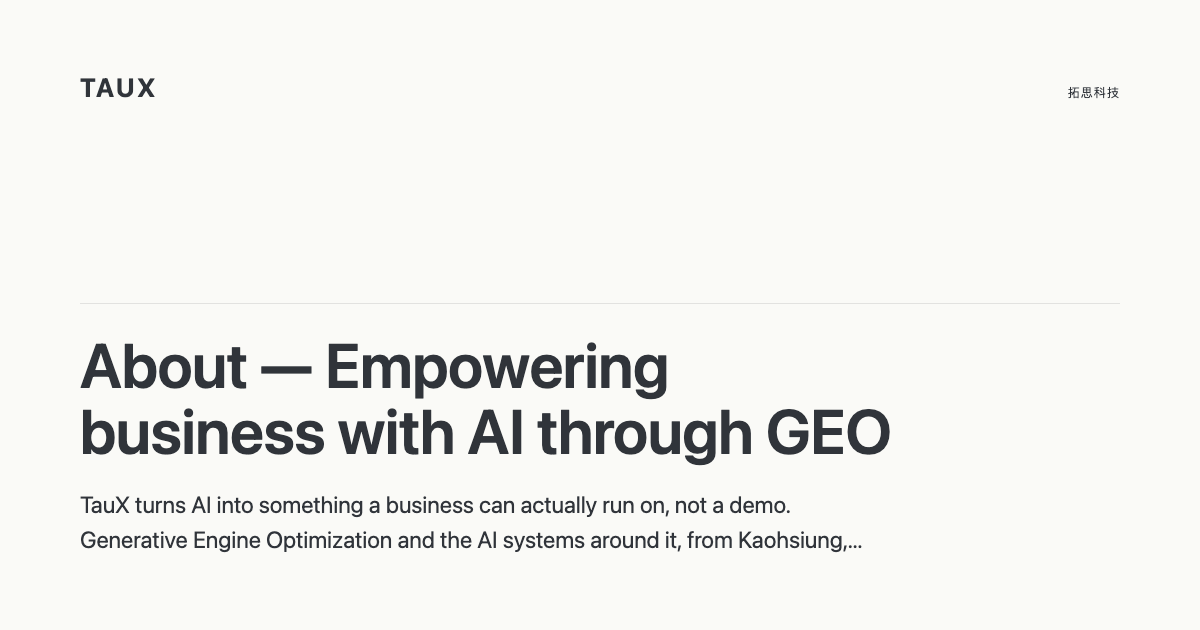
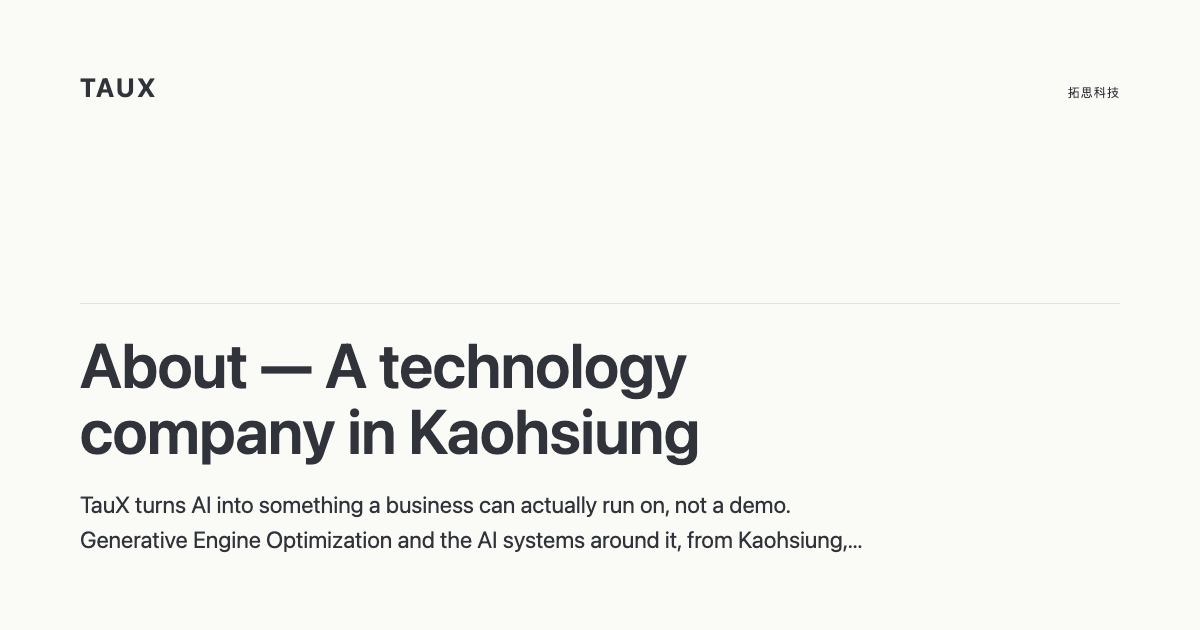
語氣——八處促銷語言，而 v5 唯一那條內容規則從來沒有東西讀過它 (#300)
* fix: 語氣——八處促銷語言，而 v5 唯一那條內容規則從來沒有東西讀過它

DESIGN.md 的「語氣」章是 v5 從參考站整條搬過來、印刷與網頁都成立的唯一一條
內容規則：no sales language, CTA, hype, productivity slogans, brand manifesto
voice。它自己寫著「沒有東西檢查，而且大概檢查不了」。

第一次真的讀過它。zh-Hant-TW 二十條路由、七萬字，八處違規，集中在四頁。

  index            致力於⋯以最敏捷、沉穩的姿態完成數智化躍遷
  about H1 副標    我們把 AI 變成企業真正的戰力
  about 開頭       深厚根基 + 國際級視野 + 搶佔先機
  about 使命       我們的使命是⋯透過獨家的「答案容器」技術
  about 技術       打造極致的使用者體驗⋯全方位的技術後盾
  data-governance  打通數據任督二脈，奠定堅實基礎
  ai-smart-work    數智化你的工作⋯構建您的 AI 競爭力
  ai-smart-work    讓 AI 不只是工具，而是你的最強大腦

改寫的範本不是我發明的，是站上本來就有的三句：agent-dev-workflow 的「工具是
公開的，難的是接到你既有的 tracker」、pqc-migration 的「多數組織卡在第一步」、
threat-landscape 的「報告講的是全球樣態，你需要的是自己的資產清單」。具體、
觀察式、指出真正的難處——正是規範要的 human and specific rather than
inspirational。

一個模式：技術指南頁的語氣本來就是對的，行銷頁不是。規範那句「本站 15 頁是
技術指南，落在 factual／scientific 那一格」只涵蓋了 15 頁，另外 5 頁沒人管過。

CTA 按鈕本身不違規。DESIGN.md 的不採用表明文寫著「海報沒有點擊目標，網站的
主要動作就是點擊，這是印刷／網頁的邊界」。看的是按鈕旁邊那句話。

兩件量出來的事：

- 模式撈得出候選，判不了語氣。42 個候選裡 34 個是誤報——「最好由寫那個改動的
  session 做」是技術散文，「27 秒是最快值」是報告數據，「最佳實踐」是 Best
  Practices 的譯名。這印證規範自己寫的「大概檢查不了」。
- 我的模式漏掉 about.html 的 H1 副標。它沒有命中任何關鍵字，是改完前後對讀
  才看到的——而那是全站最刺眼的位置之一。

只改 zh-Hant-TW。其他四個 locale 的文案不是逐字翻譯（CTA 計數 9/11/4/6/9 各
不同），要各自掃過，不能套。

驗證：十二道閘門全綠，dist/ 與 100 份 Markdown 雙生檔重建。

Claude-Session: https://claude.ai/code/session_01JUmS2Ks4Kz9V63H9wo6wv9

* fix: 截圖抓到三處，其中一處是我上一個 commit 自己造成的

第一次真的看這個站。八張截圖，三件十二道閘門全綠時看不見的事。

一、上一個 commit 製造了重複。τ 那段的括號裡已經解釋完時間常數，我又用白話
   再解釋一次：「（…表徵系統響應外界變化並過渡至全新穩定狀態的關鍵時間）。
[…]

Changed region(s): [[0.0617, 0.5429, 0.74, 0.754]]

diff --git a/templates/about.html b/templates/about.html
@@ -45,14 +45,14 @@
                  measured width differs by machine and an unforced break lands
                  somewhere different on each. This line is shorter and fits on
                  one at every width the geometry gate walks. -->
-            <span class="display-lead">Empowering Business with AI</span>
-            <span class="display-sub">我們把 AI 變成企業真正的戰力</span>
+            <span class="display-lead">A technology company in Kaohsiung</span>
+            <span class="display-sub">做 GEO 與企業 AI 導入的技術公司</span>
         </h1>
         <p class="text-xl max-w-[42ch] leading-relaxed mb-6">
-            TauX 拓思科技專注於 GEO (生成式引擎優化) 與 AI 智能解決方案。我們結合高雄在地的深厚根基與國際級的技術視野，協助企業在 AI 時代搶佔先機。
+            TauX 拓思科技做 GEO（生成式引擎優化）與企業 AI 導入，公司設在高雄岡山。
         </p>
         <p class="text-sm max-w-[42ch] leading-relaxed font-sans">
-            我們的名字源自希臘字母 <strong class="font-sans">τ</strong>（Tau，在控制科學與物理學中代表<strong>時間常數 Time Constant</strong>，表徵系統響應外界變化並過渡至全新穩定狀態的關鍵時間）。TauX 致力於優化企業迎戰 AI 浪潮的「時間常數」，加速系統性的智能躍遷。
+            我們的名字源自希臘字母 <strong class="font-sans">τ</strong>（Tau，在控制科學與物理學中代表<strong>時間常數 Time Constant</strong>，表徵系統響應外界變化並過渡至全新穩定狀態的關鍵時間）。導入 AI 也有這個常數，而縮短它就是我們在做的事。
         </p>
     </div>
 </section>
@@ -69,7 +69,7 @@
                 </h2>
                 </div>
                 <p class="leading-relaxed">
-                    在 Generative AI 重塑網路流量的時代，我們的使命是協助品牌從傳統 SEO 轉型至 GEO。透過獨家的「答案容器」技術，讓您的內容被 AI 優先讀取與引用。
+                    生成式引擎不回傳一份連結清單，它回傳一段答案。要成為那段答案的來源，和排進十條藍色連結是兩件不同的工作。
                 </p>
             </div>
             <div class="border-t border-line pt-8">
@@ -80,7 +80,7 @@
                 </h2>
                 </div>
                 <p class="leading-relaxed">
-                    我們採用 Go (Golang) 構建高效能後端，並以現代化前端技術打造極致的使用者體驗。從數據治理到自動化 Agent，我們提供全方位的技術後盾。
+                    後端寫 Go，前端不套框架的預設樣式。做的範圍從資料治理到自動化 agent。
                 </p>
             </div>
         </div>

diff --git a/templates/zh-Hans-CN/about.html b/templates/zh-Hans-CN/about.html
@@ -45,11 +45,11 @@
                  measured width differs by machine and an unforced break lands
                  somewhere different on each. This line is shorter and fits on
                  one at every width the geometry gate walks. -->
-            <span class="display-lead">Empowering Business with AI</span>
-            <span class="display-sub">我们把 AI 变成企业真正的战力</span>
+            <span class="display-lead">A technology company in Kaohsiung</span>
+            <span class="display-sub">做 GEO 与企业 AI 导入的技术公司</span>
         </h1>
         <p class="text-xl max-w-[42ch] leading-relaxed mb-6">
-            TauX 拓思科技专注于 GEO (生成式引擎优化) 与 AI 智能解决方案。我们结合高雄在地的深厚根基与国际级的技术视野，协助企业在 AI 时代抢占先机。
+            TauX 拓思科技做 GEO（生成式引擎优化）与企业 AI 导入，公司设在高雄冈山。
         </p>
         <p class="text-sm max-w-[42ch] leading-relaxed font-sans">
             我们的名字源自希腊字母 <strong class="font-sans">τ</strong>（Tau，在控制科学与物理学中代表<strong>时间常数 Time Constant</strong>，表征系统响应外界变化并过渡至全新稳定状态的关键时间）。TauX 致力于优化企业迎战 AI 浪潮的「时间常数」，加速系统性的智能跃迁。
@@ -69,7 +69,7 @@
                 </h2>
                 </div>
                 <p class="leading-relaxed">
-                    在 Generative AI 重塑网络流量的时代，我们的使命是协助品牌从传统 SEO 转型至 GEO。透过独家的「答案容器」技术，让您的内容被 AI 优先读取与引用。
+                    生成式引擎不回传一份链接清单，它回传一段答案。要成为那段答案的来源，和排进十条蓝色链接是两件不同的工作。
                 </p>
             </div>
             <div class="border-t border-line pt-8">
@@ -80,7 +80,7 @@
                 </h2>
                 </div>
                 <p class="leading-relaxed">
-                    我们采用 Go (Golang) 构建高性能后端，并以现代化前端技术打造极致的用户体验。从数据治理到自动化 Agent，我们提供全方位的技术后盾。
+                    后端写 Go，前端不套框架的预设样式。做的范围从数据治理到自动化 agent。
                 </p>
             </div>
         </div>

diff --git a/templates/index.html b/templates/index.html
@@ -11,7 +11,7 @@
     {
       "@type": "WebPage",
       "@id": "https://taux.io/zh-Hant-TW#webpage",
-      "name": "拓思科技股份有限公司｜TauX - Empower Your Business with AI｜GEO 生成式引擎優化",
+      "name": "拓思科技股份有限公司｜TauX - AI that earns its place｜GEO 生成式引擎優化",
       "description": "TauX 協助企業把 AI 變成能用的系統，而不是一場展示，提供 GEO 生成式引擎優化與技術開發服務。",
       "url": "https://taux.io/zh-Hant-TW",
       "isPartOf": {"@id": "https://taux.io/#website"},
@@ -36,7 +36,7 @@
                  unforced break lands in a different place on each. Breaking
                  before "with AI" also puts the only content word in the
                  sentence on a line of its own. -->
-            <span class="display-lead">Empower Your Business<br>with AI</span>
+            <span class="display-lead">AI that earns<br>its place</span>
             <span class="display-sub">把 AI 變成公司真正用得上的能力</span>
         </h1>
 
@@ -47,7 +47,7 @@
             </p>
 
             <p class="text-sm leading-relaxed max-w-prose" itemprop="description">
-                我們的名字源自希臘字母 <span class="font-sans">&tau;</span>（Tau，在物理學與控制工程中代表<strong class="font-normal">時間常數 Time Constant</strong>，象徵系統對外部變革的響應速度與回歸穩定的效率）。TauX 致力於協助企業優化其面對 AI 浪潮的時間常數，以最敏捷、沉穩的姿態完成數智化躍遷。
+                我們的名字源自希臘字母 <span class="font-sans">&tau;</span>（Tau，在物理學與控制工程中代表<strong class="font-normal">時間常數 Time Constant</strong>，象徵系統對外部變革的響應速度與回歸穩定的效率）。導入 AI 也有這個常數，而縮短它就是我們在做的事。
             </p>
         </div>
 

diff --git a/templates/zh-Hans-CN/index.html b/templates/zh-Hans-CN/index.html
@@ -11,7 +11,7 @@
     {
       "@type": "WebPage",
       "@id": "https://taux.io/zh-Hans-CN#webpage",
-      "name": "拓思科技股份有限公司｜TauX - Empower Your Business with AI｜GEO 生成式引擎优化",
+      "name": "拓思科技股份有限公司｜TauX - AI that earns its place｜GEO 生成式引擎优化",
       "description": "TauX 协助企业把 AI 变成能用的系统，而不是一场展示，提供 GEO 生成式引擎优化与技术开发服务。",
       "url": "https://taux.io/zh-Hans-CN",
       "isPartOf": {"@id": "https://taux.io/#website"},
@@ -36,7 +36,7 @@
                  unforced break lands in a different place on each. Breaking
                  before "with AI" also puts the only content word in the
                  sentence on a line of its own. -->
-            <span class="display-lead">Empower Your Business<br>with AI</span>
+            <span class="display-lead">AI that earns<br>its place</span>
             <span class="display-sub">把 AI 变成公司真正用得上的能力</span>
         </h1>
 
@@ -47,7 +47,7 @@
             </p>
 
             <p class="text-sm leading-relaxed max-w-prose" itemprop="description">
-                我们的名字源自希腊字母 <span class="font-sans">&tau;</span>（Tau，在物理学与控制工程中代表<strong class="font-normal">时间常数 Time Constant</strong>，象征系统对外部变革的响应速度与回归稳定的效率）。TauX 致力于协助企业优化其面对 AI 浪潮的时间常数，以最敏捷、沉稳的姿态完成数智化跃迁。
+                我们的名字源自希腊字母 <span class="font-sans">&tau;</span>（Tau，在物理学与控制工程中代表<strong class="font-normal">时间常数 Time Constant</strong>，象征系统对外部变革的响应速度与回归稳定的效率）。导入 AI 也有这个常数，而缩短它就是我们在做的事。
             </p>
         </div>
 

diff --git a/templates/ja-JP/about.html b/templates/ja-JP/about.html
@@ -45,7 +45,7 @@
                  Chinese has no upper case; the same holds for Japanese, so
                  `heading structure` asks this locale for a `display-sub`
                  (decision #56). -->
-            <span class="display-lead">Empowering Business with AI</span>
+            <span class="display-lead">A technology company in Kaohsiung</span>
             <span class="display-sub">AI を、企業が本当に使える力に</span>
         </h1>
         <p class="text-xl max-w-[42ch] leading-relaxed mb-6">
@@ -69,7 +69,7 @@
                 </h2>
                 </div>
                 <p class="leading-relaxed">
-                    生成 AI がウェブの流入を組み替えつつある今、私たちの使命はブランドを従来の SEO から GEO へ移すことです。独自の「回答コンテナ」技術によって、御社のコンテンツが AI に優先して読まれ、引用されるようにします。
+                    生成エンジンはリンクの一覧を返しません。ひとつの答えを返します。その答えの出典になることと、青いリンク十本の中に並ぶことは、別の仕事です。
                 </p>
             </div>
             <div class="border-t border-line pt-8">

diff --git a/templates/ko-KR/about.html b/templates/ko-KR/about.html
@@ -43,7 +43,7 @@
             <!-- Hangul has no upper case either, so decision #6's reason for
                  the two-line h1 holds here as it does for the CJK locales and
                  not for English (decision #56). -->
-            <span class="display-lead">Empowering Business with AI</span>
+            <span class="display-lead">A technology company in Kaohsiung</span>
             <span class="display-sub">AI를 기업이 실제로 쓸 수 있는 힘으로</span>
         </h1>
         <p class="text-xl max-w-[42ch] leading-relaxed mb-6">
@@ -67,7 +67,7 @@
                 </h2>
                 </div>
                 <p class="leading-relaxed">
-                    생성형 AI가 웹 트래픽을 다시 짜고 있는 지금, 우리의 사명은 브랜드를 기존 SEO에서 GEO로 옮기는 것입니다. 자체 '답변 컨테이너' 기술로 귀사의 콘텐츠가 AI에 먼저 읽히고 인용되도록 만듭니다.
+                    생성형 엔진은 링크 목록을 돌려주지 않습니다. 하나의 답을 돌려줍니다. 그 답의 출처가 되는 일과, 파란 링크 열 개 안에 드는 일은 서로 다른 작업입니다.
                 </p>
             </div>
             <div class="border-t border-line pt-8">

diff --git a/templates/ai-smart-work.html b/templates/ai-smart-work.html
@@ -56,7 +56,7 @@
         </h1>
 
                 <p class="text-lg leading-relaxed max-w-prose mb-10">
-                    從「人工智慧」進化到「數智化」思維。我們協助企業與個人打造專屬的 AI 數智化助理 (Gem)，讓 AI 不只是工具，而是你的最強大腦。
+                    這頁講的是問法，以及怎麼把一組問法固定成一個可重複用的助理（Gem）。內訓做的就是這件事。
                 </p>
 
                 <a href="mailto:hello@taux.io" class="btn">
@@ -249,7 +249,7 @@
                         <span class="display-sub">懂得問，AI才會答；懂得想，AI才能幫</span>
                     </h2>
                 </div>
-                <p class="text-lg mb-10 max-w-prose mx-auto">不要只是工作，要「數智化」你的工作。立即聯繫我們，構建您的 AI 競爭力。</p>
+                <p class="text-lg mb-10 max-w-prose mx-auto">同一個問題換個問法，答案的可用度差很多。想把它變成團隊的共同做法，那是另一件事——可以聊。</p>
                 <a href="mailto:hello@taux.io" class="btn">
                     開始諮詢
                 </a>

diff --git a/templates/zh-Hans-CN/ai-smart-work.html b/templates/zh-Hans-CN/ai-smart-work.html
@@ -56,7 +56,7 @@
         </h1>
 
                 <p class="text-lg leading-relaxed max-w-prose mb-10">
-                    从「人工智能」进化到「数智化」思维。我们协助企业与个人打造专属的 AI 数智化助理 (Gem)，让 AI 不只是工具，而是你的最强大脑。
+                    这页讲的是问法，以及怎么把一组问法固定成一个可重复用的助理（Gem）。内训做的就是这件事。
                 </p>
 
                 <a href="mailto:hello@taux.io" class="btn">
@@ -249,7 +249,7 @@
                         <span class="display-sub">懂得问，AI才会答；懂得想，AI才能帮</span>
                     </h2>
                 </div>
-                <p class="text-lg mb-10 max-w-prose mx-auto">不要只是工作，要「数智化」你的工作。立即联系我们，构建您的 AI 竞争力。</p>
+                <p class="text-lg mb-10 max-w-prose mx-auto">同一个问题换个问法，答案的可用度差很多。想把它变成团队的共同做法，那是另一件事——可以聊。</p>
                 <a href="mailto:hello@taux.io" class="btn">
                     开始咨询
                 </a>

diff --git a/templates/ko-KR/index.html b/templates/ko-KR/index.html
@@ -11,7 +11,7 @@
     {
       "@type": "WebPage",
       "@id": "https://taux.io/ko-KR#webpage",
-      "name": "拓思科技股份有限公司｜TauX - Empower Your Business with AI｜GEO 생성형 엔진 최적화",
+      "name": "拓思科技股份有限公司｜TauX - AI that earns its place｜GEO 생성형 엔진 최적화",
       "description": "TauX는 AI를 한 번 보여 주는 데모가 아니라 기업이 실제로 굴릴 수 있는 시스템으로 바꿉니다. GEO 생성형 엔진 최적화와 기술 개발을 합니다.",
       "url": "https://taux.io/ko-KR",
       "isPartOf": {"@id": "https://taux.io/#website"},
@@ -36,7 +36,7 @@
                  unforced break lands in a different place on each. Breaking
                  before "with AI" also puts the only content word in the
                  sentence on a line of its own. -->
-            <span class="display-lead">Empower Your Business<br>with AI</span>
+            <span class="display-lead">AI that earns<br>its place</span>
             <span class="display-sub">AI를 회사가 진짜 쓸 수 있는 힘으로</span>
         </h1>
 

diff --git a/templates/ja-JP/index.html b/templates/ja-JP/index.html
@@ -11,7 +11,7 @@
     {
       "@type": "WebPage",
       "@id": "https://taux.io/ja-JP#webpage",
-      "name": "拓思科技股份有限公司｜TauX - Empower Your Business with AI｜GEO 生成エンジン最適化",
+      "name": "拓思科技股份有限公司｜TauX - AI that earns its place｜GEO 生成エンジン最適化",
       "description": "TauX は AI を、一度きりのデモではなく企業が実際に運用できるシステムに変えます。GEO 生成エンジン最適化と技術開発を手がけています。",
       "url": "https://taux.io/ja-JP",
       "isPartOf": {"@id": "https://taux.io/#website"},
@@ -36,7 +36,7 @@
                  unforced break lands in a different place on each. Breaking
                  before "with AI" also puts the only content word in the
                  sentence on a line of its own. -->
-            <span class="display-lead">Empower Your Business<br>with AI</span>
+            <span class="display-lead">AI that earns<br>its place</span>
             <span class="display-sub">AI を、会社が本当に使える力に</span>
         </h1>
 

diff --git a/templates/en-US/index.html b/templates/en-US/index.html
@@ -11,7 +11,7 @@
     {
       "@type": "WebPage",
       "@id": "https://taux.io/en-US#webpage",
-      "name": "TauX — Empower Your Business with AI | Generative Engine Optimization",
+      "name": "TauX — AI that earns its place | Generative Engine Optimization",
       "description": "TauX turns AI into systems a business can actually run on, rather than a demo. Generative Engine Optimization and engineering services, from Kaohsiung, Taiwan.",
       "url": "https://taux.io/en-US",
       "isPartOf": {"@id": "https://taux.io/#website"},
@@ -40,7 +40,7 @@
                  unforced break lands in a different place on each. Breaking
                  before "with AI" also puts the only content word in the
                  sentence on a line of its own. -->
-            <span class="display-lead">Empower Your Business<br>with AI</span>
+            <span class="display-lead">AI that earns<br>its place</span>
         </h1>
 
         <div class="max-w-[42ch]" itemscope itemtype="https://schema.org/Organization">

diff --git a/templates/data-governance.html b/templates/data-governance.html
@@ -162,7 +162,7 @@
                         <span class="display-sub">準備好啟動數據治理了嗎？</span>
                     </h2>
                     </div>
-                    <p class="mb-10 max-w-prose mx-auto text-lg">讓 TauX 協助您打通數據任督二脈，為企業 AI 轉型奠定堅實基礎。</p>
+                    <p class="mb-10 max-w-prose mx-auto text-lg">AI 導入卡住的地方通常不是模型，是資料——放在哪、誰在用、能不能信。可以先聊聊你現在的狀況。</p>
 
                     <a href="mailto:hello@taux.io" class="btn">
                         預約諮詢
